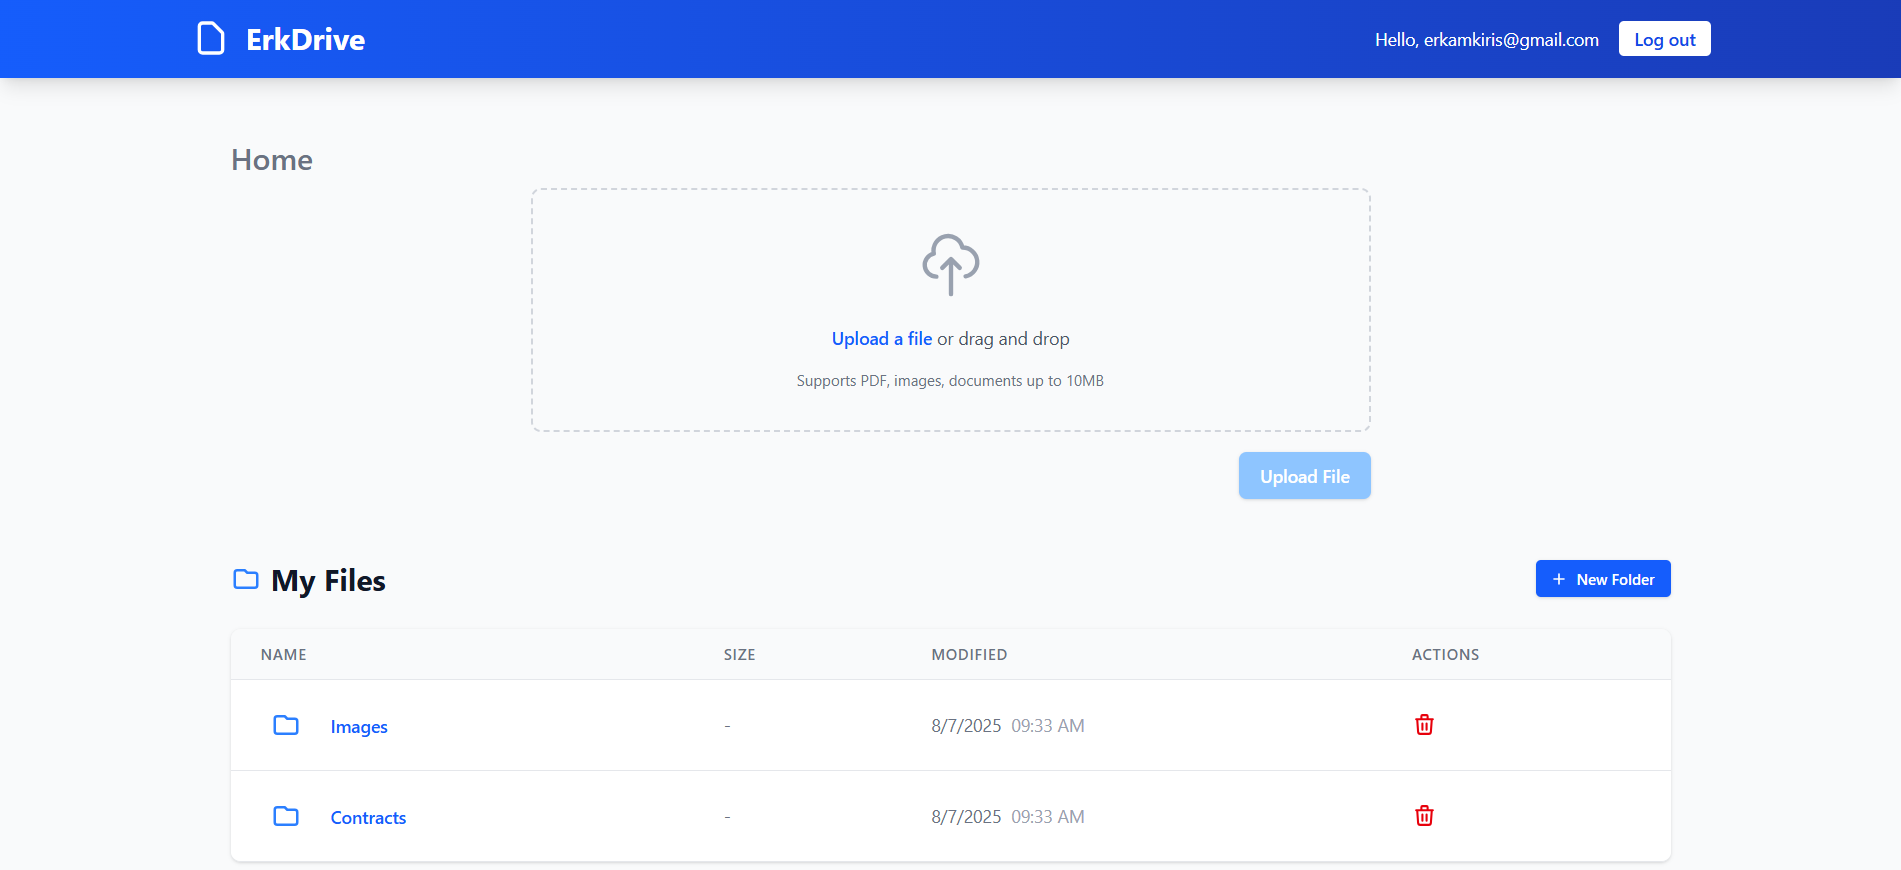
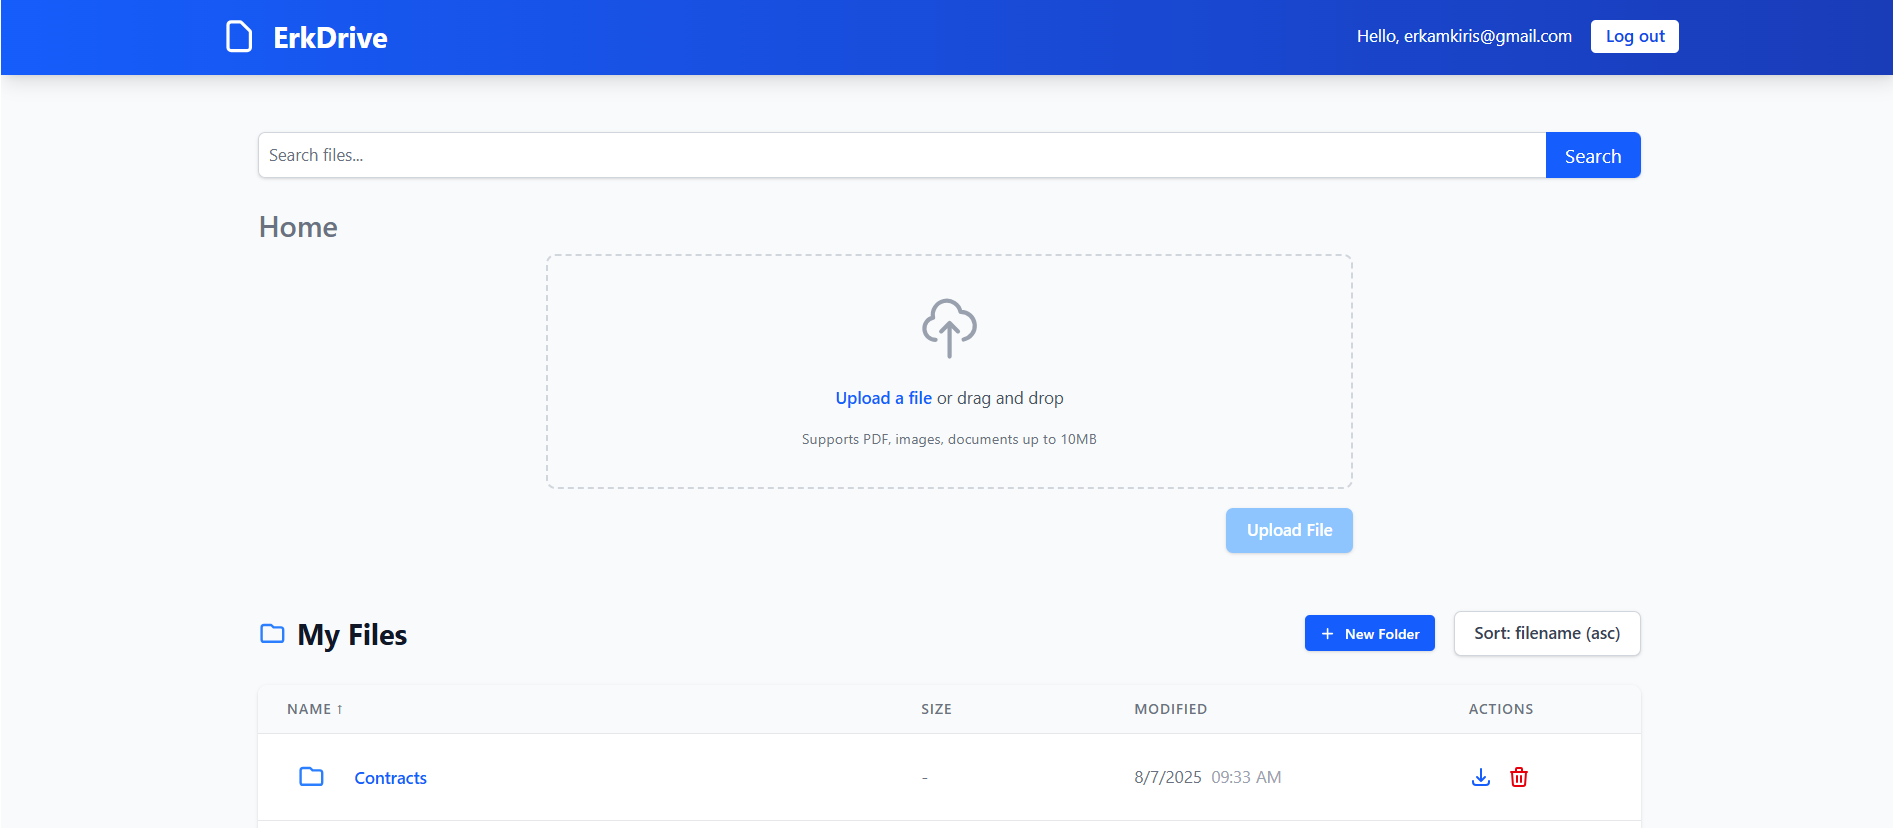
docs: update README.md to include search functionality and add search bar image

diff --git a/README.md b/README.md
@@ -30,8 +30,10 @@ ErkDrive is a full-stack cloud storage application similar to Google Drive. It a
   - Upload, browse, and download files
   - Supports folder creation and breadcrumb navigation
   - Displays file type, size, and upload time
+  - Search the name of the file type in search-bar
 
 ![File Browser](public/file-browser.png)
+![Search Bar](public/search-bar.png)
 
 ### 📤 File Upload  
   - Drag-and-Drop Upload
